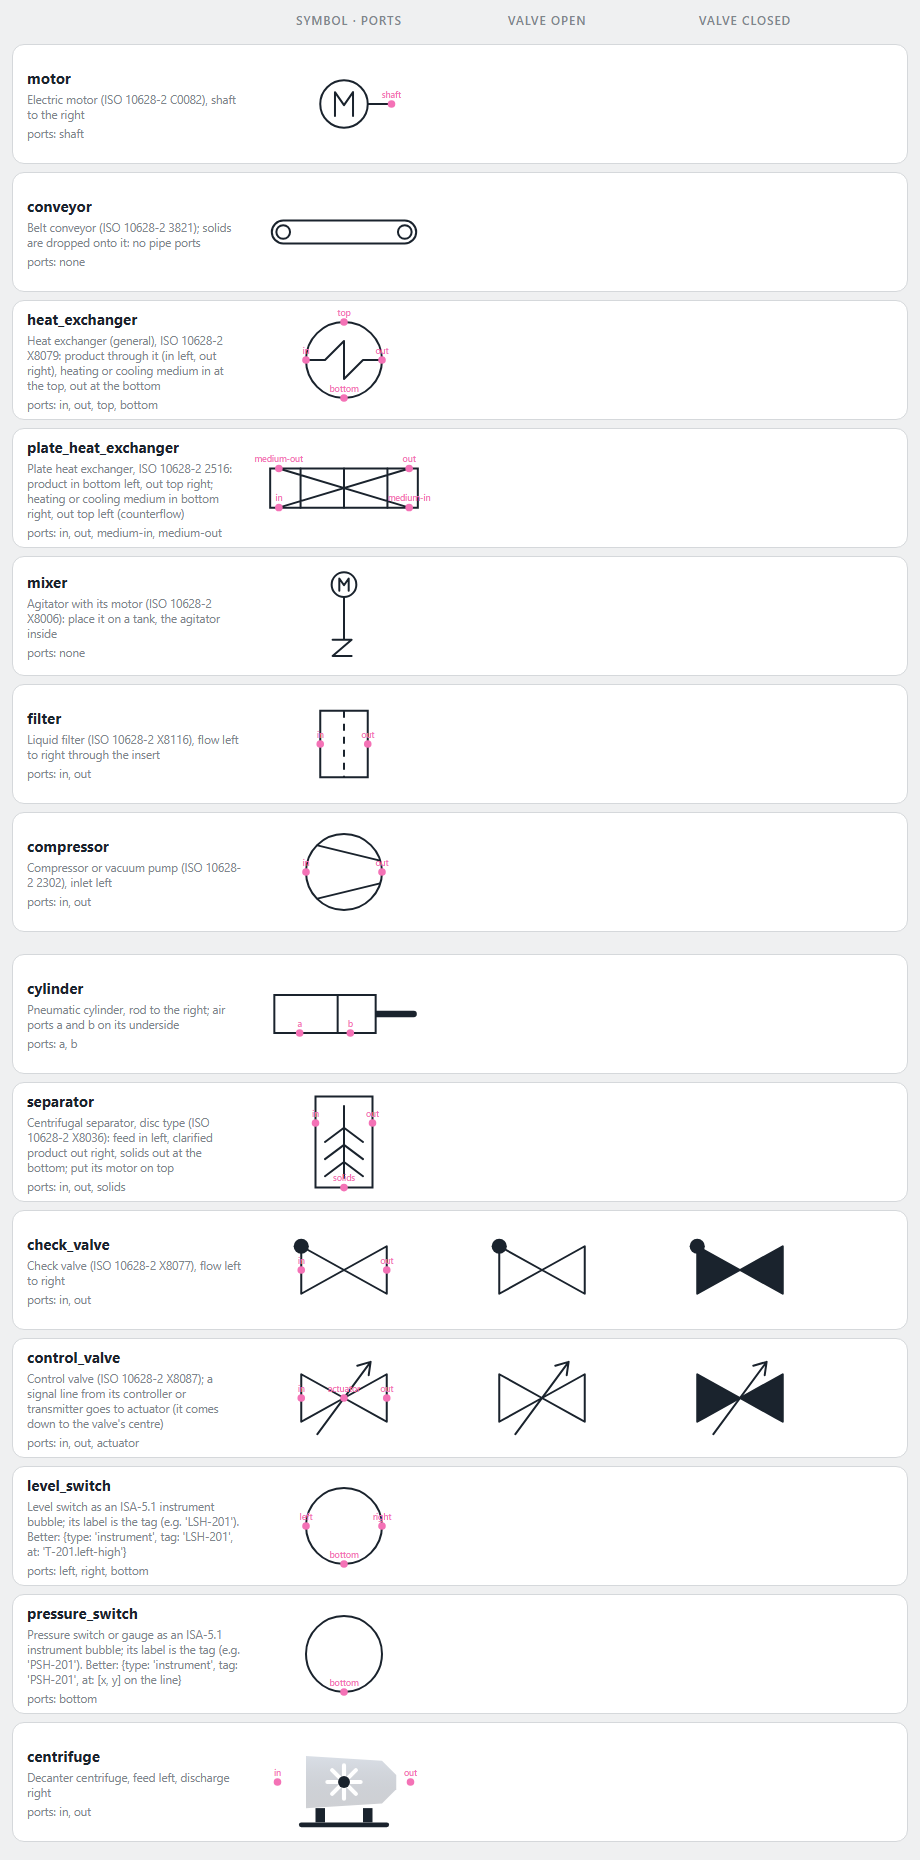
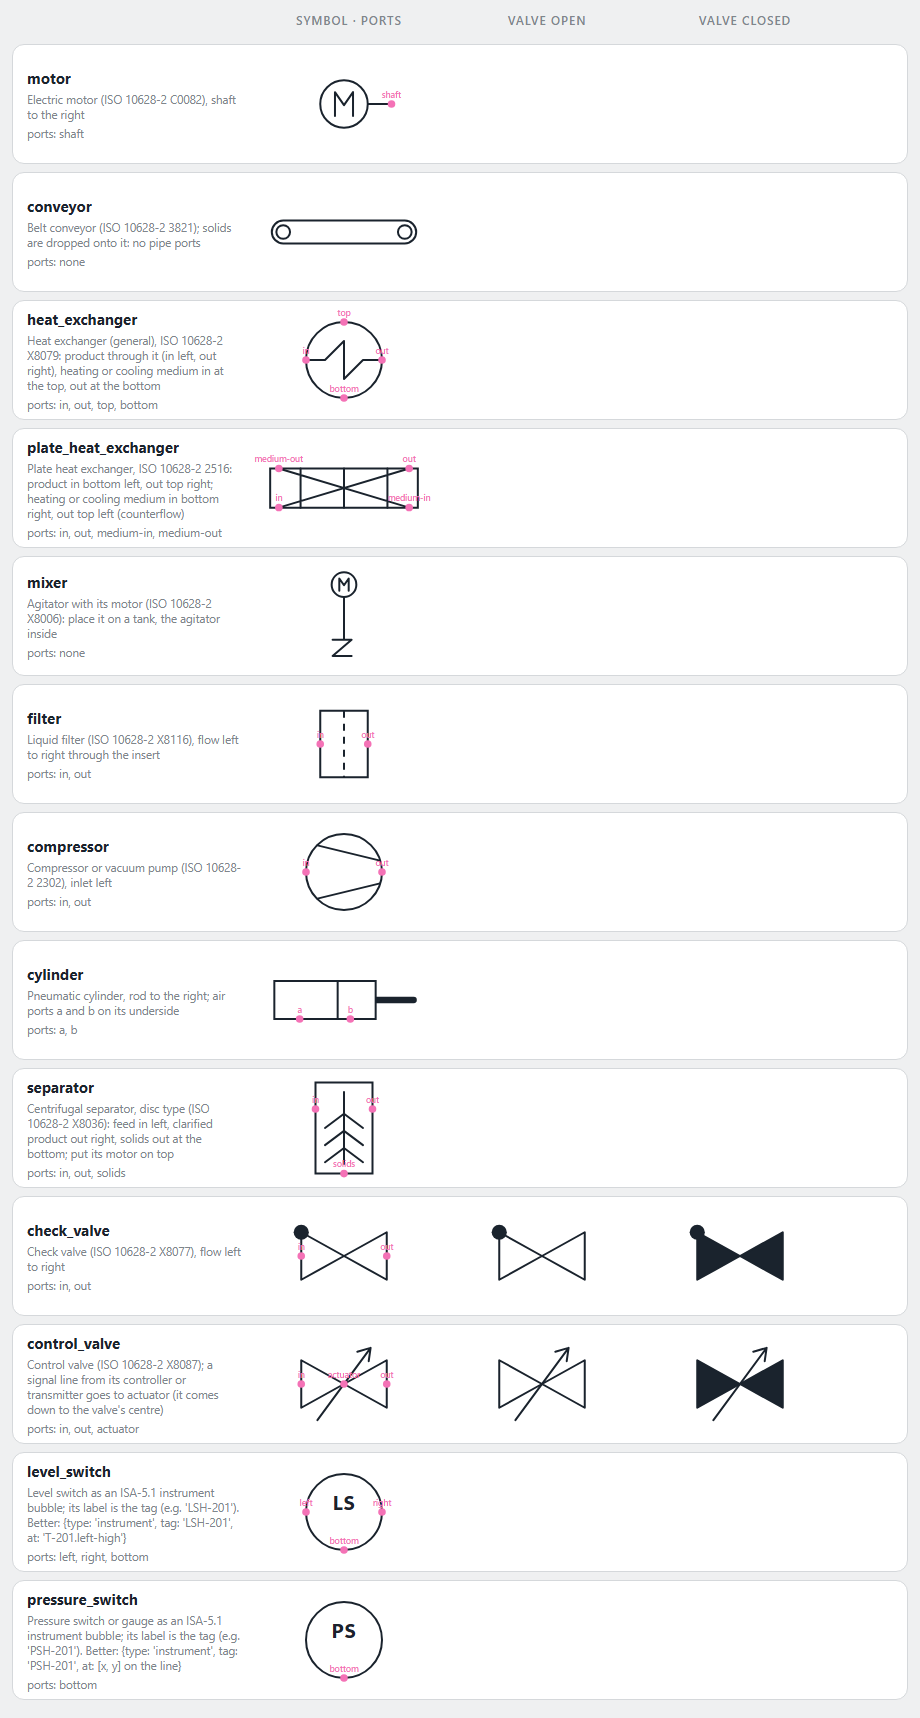
HMI symbol sheet: instrument bubbles print their letters
The sheet drew level_switch and pressure_switch as blank circles; it
now prints LS and PS with the screen's own bubble text. The README's
sheet shows only the built-in symbols (no custom demo centrifuge).

diff --git a/src/hmi/service.ts b/src/hmi/service.ts
@@ -15,9 +15,9 @@ import { currentCodesysSim } from "../codesys/simulation.js";
 /** The alarm group hmi_export_codesys puts the HMI's alarms in. */
 export const HMI_ALARM_GROUP = "AG_HMI";
 import type { AppContext } from "../tools.js";
-import { canvasOf, HMI_CSS, symbolMarkup, type PageContext } from "./render.js";
+import { bubbleText, canvasOf, HMI_CSS, symbolMarkup, type PageContext } from "./render.js";
 import { allAlarms, screenSchema, screenVariables, type Screen } from "./spec.js";
-import { BUILTIN_SYMBOLS, svgProblems, symbolPorts, symbolSchema, type SymbolDef, type SymbolLib } from "./symbols.js";
+import { BUILTIN_SYMBOLS, INSTRUMENT_SYMBOLS, svgProblems, symbolPorts, symbolSchema, type SymbolDef, type SymbolLib } from "./symbols.js";
 import { themeCss, themeFor } from "./theme.js";
 
 export type Values = Record<string, string | undefined>;
@@ -269,7 +269,9 @@ export function symbolSheet(entries: [string, SymbolDef][], theme: "dark" | "lig
             .map(([pn, p]) => `<circle cx="${p.at[0]}" cy="${p.at[1]}" r="1.6" fill="#f472b6"/><text x="${p.at[0]}" y="${p.at[1] - 2.6}" class="pn">${pn}</text>`)
             .join("")
         : "";
-      return `<svg width="190" height="114" viewBox="-40 -24 80 48"><g class="${cls}">${symbolMarkup(name, d, fit)}</g>${marks}</svg>`;
+      // An instrument bubble prints its letters, as on a screen (LS, PS).
+      const inst = INSTRUMENT_SYMBOLS[name];
+      return `<svg width="190" height="114" viewBox="-40 -24 80 48"><g class="${cls}">${symbolMarkup(name, d, fit)}${inst ? bubbleText(inst, 0, 0, (fit / 2) * 0.8) : ""}</g>${marks}</svg>`;
     };
     const valve = /valve/i.test(name);
     return `<div class="row" style="top:${44 + k * rowH}px"><div class="nm">${name.replace(/[<&]/g, "")}<div class="ds">${(d.description ?? "").replace(/[<&]/g, "")}</div><div class="ds">ports: ${Object.keys(d.ports).join(", ") || "none"}</div></div>${cell("sym", true)}${valve ? `${cell("sym vlv on", false)}${cell("sym vlv", false)}` : ""}</div>`;

diff --git a/test/hmi.test.ts b/test/hmi.test.ts
@@ -14,7 +14,7 @@ import { BUILTIN_SYMBOLS } from "../src/hmi/symbols.js";
 import { canvasOf, HMI_CSS, tileBox } from "../src/hmi/render.js";
 import { THEMES } from "../src/hmi/theme.js";
 import type { ProcessItem } from "../src/hmi/spec.js";
-import { findBrowser } from "../src/hmi/service.js";
+import { findBrowser, symbolSheet } from "../src/hmi/service.js";
 import { layoutProblems, plcValue, screenSchema, screenVariables } from "../src/hmi/spec.js";
 import { createServer } from "../src/server.js";
 import type { AppContext } from "../src/tools.js";
@@ -281,6 +281,13 @@ describe("texts on a process diagram", () => {
     expect(sw[0]).toMatch(/^pressure_switch PS-201 has on, which a bubble symbol doesn't show: draw it as \{type: 'instrument', tag: 'PS-201'/);
     // A real instrument (TT-201) and a driven motor are fine; connectionWarnings carries these notes too.
     expect(connectionWarnings(list, 0.5).some((m) => m.includes("TCV-201 opening"))).toBe(true);
+  });
+
+  it("the symbol sheet prints an instrument bubble's letters, as a screen does", () => {
+    const { html } = symbolSheet([["level_switch", BUILTIN_SYMBOLS.level_switch], ["pressure_switch", BUILTIN_SYMBOLS.pressure_switch], ["filter", BUILTIN_SYMBOLS.filter]]);
+    expect(html).toMatch(/class="inst-fn"[^>]*>LS</);
+    expect(html).toMatch(/class="inst-fn"[^>]*>PS</);
+    expect(html.match(/class="inst-fn"/g)).toHaveLength(2);
   });
 
   it("shows a tripped switch by the condition badge at its bubble, never by colouring it, in the browser and CODESYS", () => {

diff --git a/src/hmi/render.ts b/src/hmi/render.ts
@@ -468,7 +468,7 @@ export function isTag(s: string | undefined): boolean {
 }
 
 /** An ISA-5.1 bubble's text: function letters over the loop number. */
-function bubbleText(tag: string, cx: number, cy: number, r: number): string {
+export function bubbleText(tag: string, cx: number, cy: number, r: number): string {
   // ISA-5.1: the function letters on top, the loop number below, sized to the bubble.
   const [, letters = tag, num = ""] = /^([A-Z]+)-?(.*)$/.exec(tag) ?? [];
   const f = r / 3.3;

diff --git a/CHANGELOG.md b/CHANGELOG.md
@@ -14,6 +14,9 @@ and this project adheres to [Semantic Versioning](https://semver.org/spec/v2.0.0
   browser and in CODESYS.
 - The heat treatment screenshots in the README: pump P-202 no longer overlaps
   separator C-202.
+- The symbol sheet (`hmi_symbols`) prints the letters in an instrument
+  bubble, "LS" and "PS", as a screen does; the bubbles were blank. The
+  README's sheet shows only the built-in symbols.
 
 ## [2.11.1] - 2026-11-15
 
